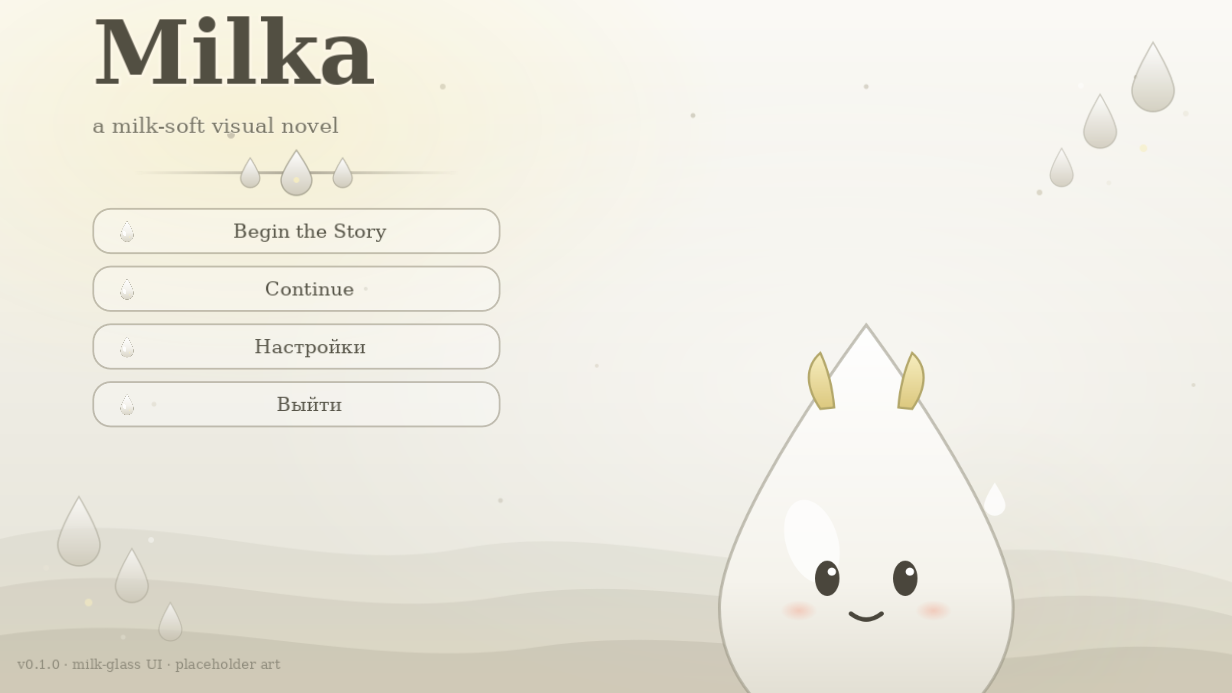
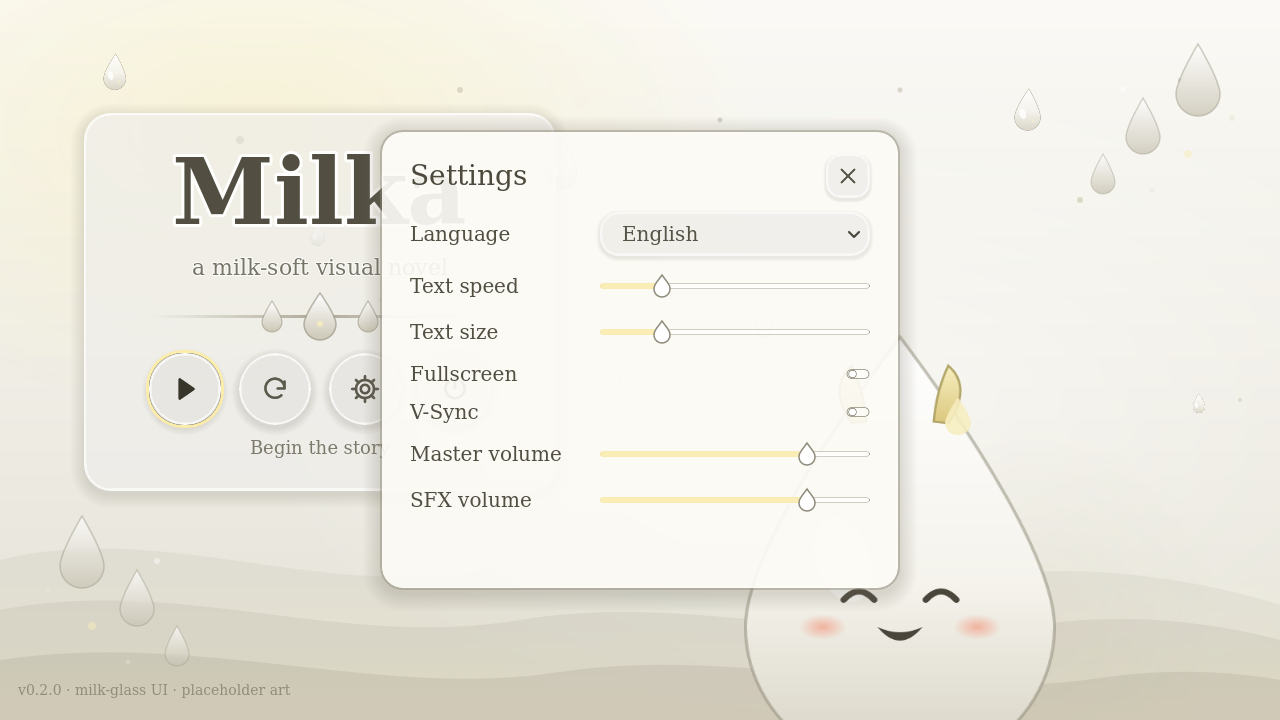
Ornament sizing, ink name plate, multi-view sway/pixman capture tool, README for shared theme

diff --git a/README.md b/README.md
@@ -148,37 +148,68 @@ Edit `dialogue/milka.dialogue` or create a new `.dialogue` file. Use these tags:
 - `#sfx=click|open|close|confirm|save|error` - Play preserved SFX
 - `- "Choice text"` - Branching dialogue
 
-## 🎬 Title Screen (milk-glass UI)
-The game starts with `scenes/title_screen.tscn` — a fully scene-authored main
-menu (no scene-builder script; `title_screen.gd` only wires buttons):
+## 🥛 Milk-glass UI: one shared settings resource
+All UI look settings live in **one** resource, `assets/ui/milk_glass_theme.tres`
+(a Godot `Theme`). The dialogue balloon (`scenes/vn_balloon.tscn`), the title
+screen and every overlay reference it and hold **no inline styles** of their own,
+so editing a colour, radius or transparency there changes the whole game.
 
-- transparent white milk-glass buttons over a warm white/grey sky with honey
-  glints and soft grey milk waves (white/grey/yellowish palette)
-- milk droplets that gently fall and sway (12 s ambient loop, all in-scene)
-- SVG ornaments everywhere: droplet trio divider, corner droplet clusters
-- Crema, the animated milk-droplet character (idle breathing + blinking + expressions)
-- shared `assets/ui/milk_glass_theme.tres` theme for Buttons/Panels
+Type variations you can put on nodes (`theme_type_variation`):
 
-Screenshots: `docs/screenshots/`.
+| variation      | base           | used by                                             |
+|----------------|----------------|-----------------------------------------------------|
+| `DialogueBox`  | PanelContainer | the dialogue bubble **and** the title panel         |
+| `NamePlate`    | PanelContainer | speaker name plate (pale butter)                    |
+| `OverlayPanel` | PanelContainer | history / save / settings / pause overlays          |
+| `IconButton`   | Button         | every square icon-only button (46×46)               |
+| `TitleButton`  | Button         | round 72×72 title menu buttons                      |
+| `GhostButton`  | Button         | history lines, save slots                           |
+| `TitleLabel`   | Label          | the big title                                       |
+
+Buttons carry **no text** — only white SVG icons from `assets/ui/icons/`
+(tinted by the theme's `icon_*_color`), plus a `tooltip_text` that is
+translated through `i18n/ru.po`. Sliders, check boxes, toggles, option arrows
+and scrollbars use the same small SVGs. Palette: milk white, cream, pale
+butter accent, grey-brown ink.
+
+## 🎬 Title Screen
+`scenes/title_screen.tscn` is hand-authored (no scene-builder script;
+`title_screen.gd` only wires input): a `DialogueBox`-styled milk-glass panel
+with four round icon buttons (begin / continue / settings / quit), a hint
+line that shows the hovered icon's tooltip, falling SVG droplets (12 s
+in-scene ambient loop) and Crema, the animated 2D character.
 
 ## ⚙ Settings (shared between title and game)
-`scenes/ui/settings_panel.tscn` is a milk-glass settings dialog used by the
-title screen; it reads and writes `user://settings.json` through the
-`SettingsStore` autoload — the same file the in-game settings panel uses —
-so language, fullscreen, V-Sync and volumes apply everywhere. The title's
-Continue button resumes the newest save slot (`user://saves/slot_*.json`).
+`scenes/ui/settings_panel.tscn` is the title's milk-glass settings dialog; it
+reads and writes `user://settings.json` through the `SettingsStore` autoload —
+the same file the in-game settings panel uses — so language, fullscreen,
+V-Sync and volumes apply everywhere. Continue resumes the newest save slot.
 
 ## 🐄 Animated Character: Crema
 `scenes/character/crema.tscn` is a reusable 2D droplet character:
 breathing idle loop, random blinking, `set_expression("neutral"|"happy"|"surprised")`,
 `greet()` hop. Preview it via `scenes/character/character_showcase.tscn`.
+Placeholder art — replace freely.
 
-## 📸 Screenshots (headless sway + pixman)
+## ✅ Checks & 📸 Screenshots (headless sway + pixman)
 ```
-sway -c <(echo 'output HEADLESS-1 mode 1280x720') &
-godot --path . --script res://tools/capture_title.gd -- \
-    --scene res://scenes/title_screen.tscn --out shot.png --frames 90
+# UI contract (57 assertions: icon-only buttons, shared theme, overlays, i18n)
+godot --headless --path . --script res://tools/probe_milk_ui.gd
+
+# real render under a headless Wayland compositor with the pixman renderer
+export XDG_RUNTIME_DIR=/tmp/xdg; mkdir -p $XDG_RUNTIME_DIR; chmod 700 $XDG_RUNTIME_DIR
+WLR_BACKENDS=headless WLR_RENDERER=pixman WLR_LIBINPUT_NO_DEVICES=1 \
+    sway -c <(echo 'output HEADLESS-1 mode 1280x720') &
+WAYLAND_DISPLAY=wayland-1 LIBGL_ALWAYS_SOFTWARE=1 godot --path . \
+    --display-driver wayland --rendering-driver opengl3 \
+    --script res://tools/capture_milk.gd -- --out docs/screenshots
 ```
+Captures: `docs/screenshots/title_screen.png`, `title_hover.png`,
+`title_settings.png`, `vn_dialogue.png`, `vn_pause.png`, `vn_settings.png`,
+`vn_save_menu.png`.
+
+Note: `tests/test_vn_ui.gd` still targets the removed demo `intro.dialogue`
+(pre-existing on this branch); `tools/probe_milk_ui.gd` covers the UI.
 
 ## 🔊 Preserved Sound Effects
 All original demo music was removed, but these UI sound effects are preserved in `assets/sfx/`:
